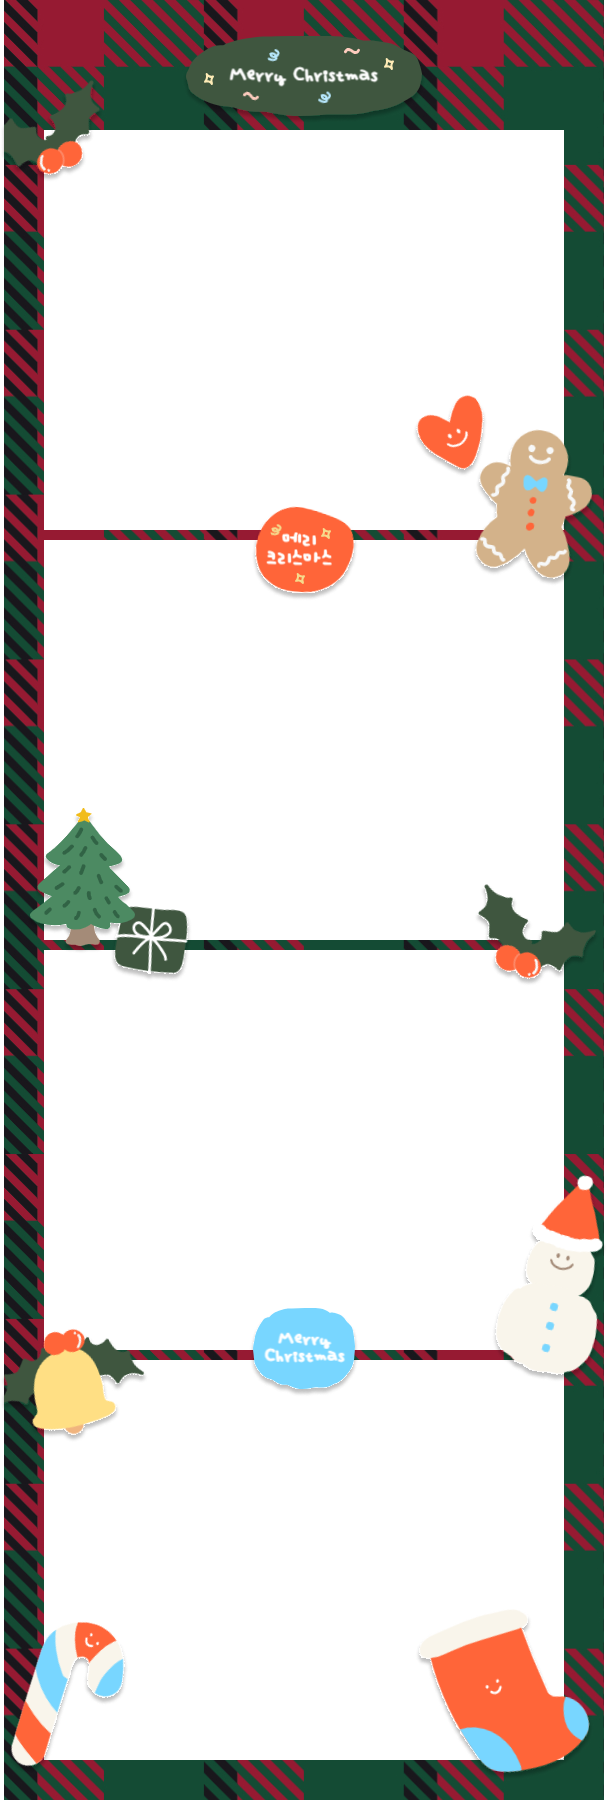
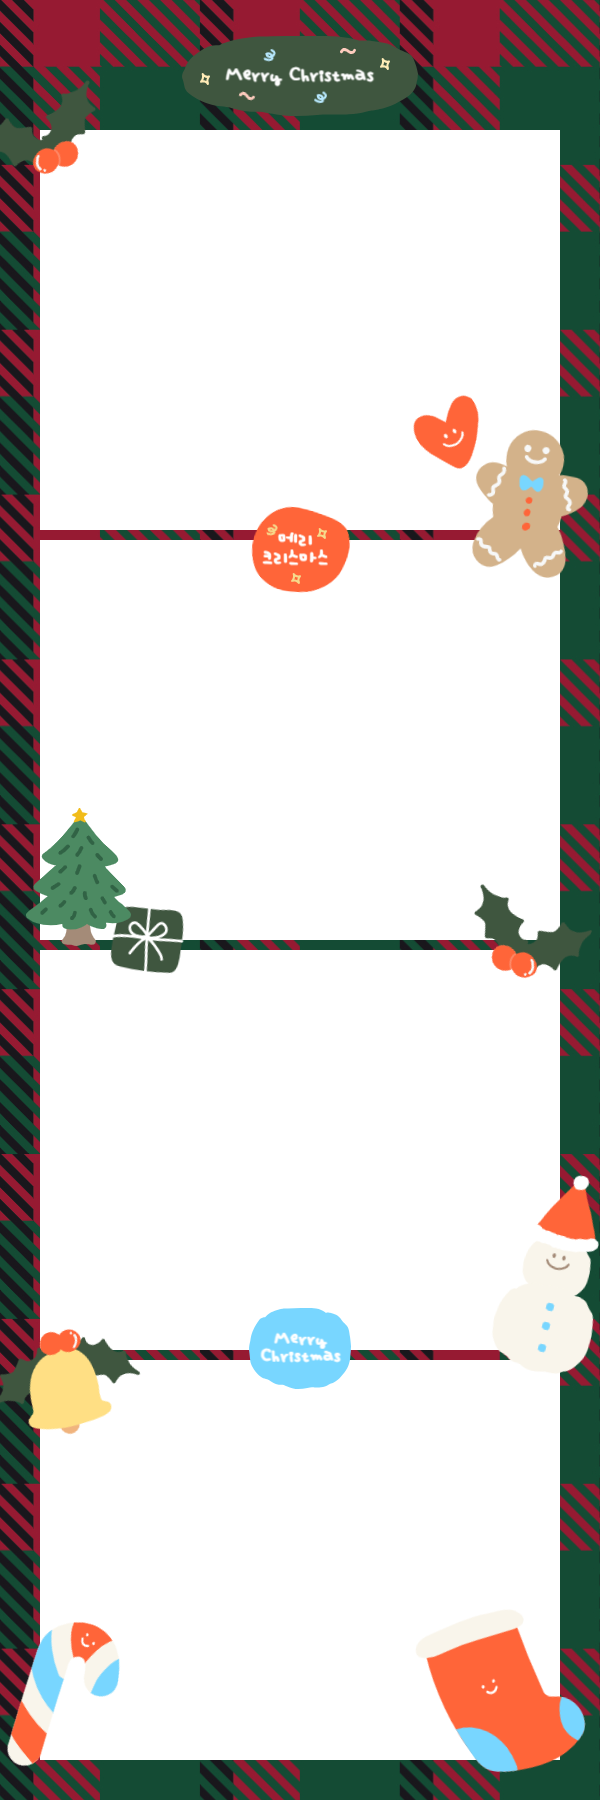
사과대 수정

Changed region(s): [[0.0, 0.0, 1.0, 1.0], [0.39, 0.0311, 0.45, 0.0933]]

diff --git a/script.js b/script.js
@@ -40,6 +40,11 @@ const descriptionSectionEl = document.getElementById(
       name : "클스2",
       logoSrc : "frame/사과대로고3.png"
     },
+    {
+      imgSrc : "frame/사과대프레임4.png",
+      name : "붕빵",
+      logoSrc : "frame/사과대로고4.png"
+    },
   ];
 
   const photoArr = []; // 촬영한 이미지 배열
